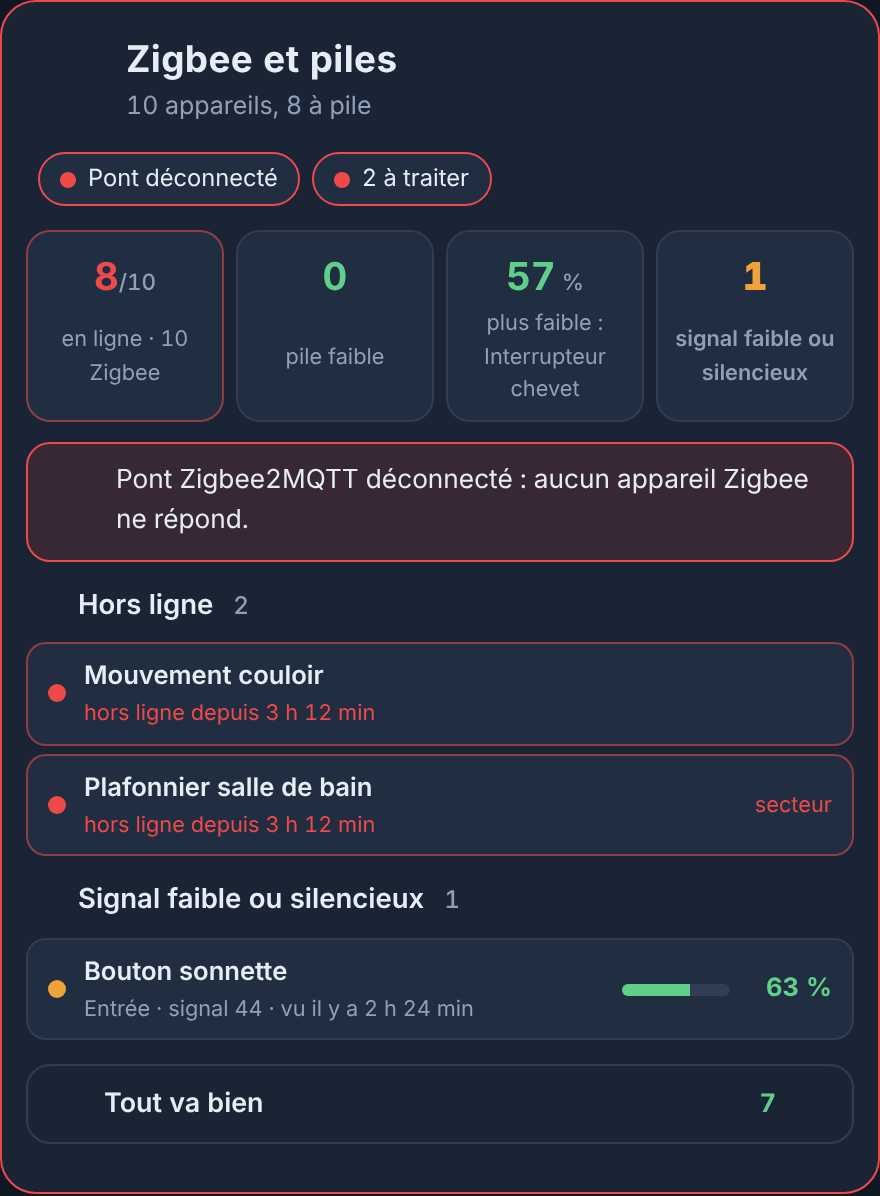
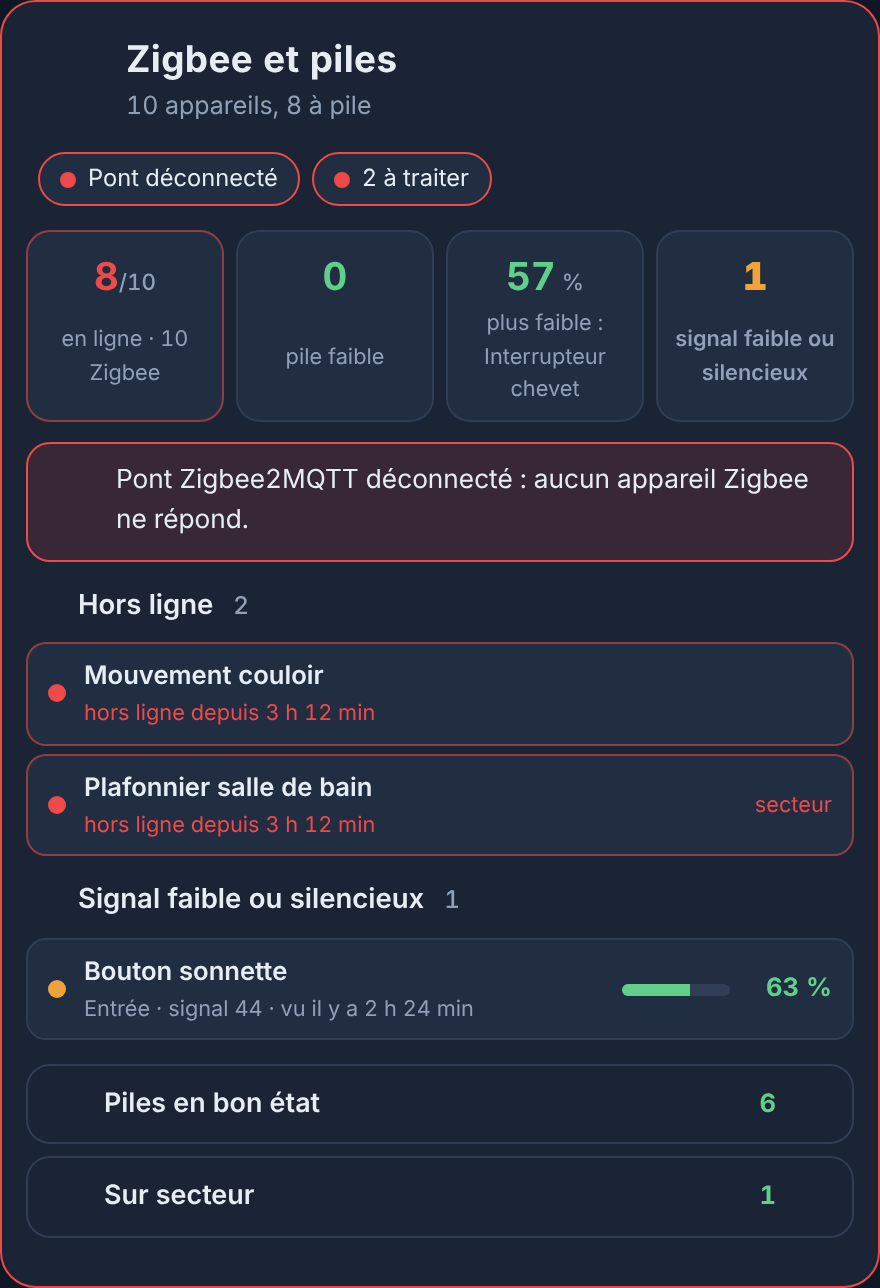
fix(carte): Zigbee et piles, appareils sur secteur à part (0.16.1-beta)
« Tout va bien » est remplacé par deux groupes repliés : « Piles en bon
état » (triées de la plus faible à la plus pleine) et « Sur secteur »
(disjoncteurs, lumières, prises). Avec beaucoup d'appareils Zigbee, la
liste dépliée mélangeait les deux. Lignes de même hauteur, modèle de
l'appareil affiché quand il n'a pas de pièce.

Claude-Session: https://claude.ai/code/session_01EzrPxe6qXk5VAyNcnhyntt

diff --git a/serveur-ha-card.js b/serveur-ha-card.js
@@ -21,7 +21,7 @@
  */
 
 (() => {
-const CARD_VERSION = "0.16.0-beta";
+const CARD_VERSION = "0.16.1-beta";
 
 /* ------------------------------------------------------------- affichage */
 
@@ -2799,13 +2799,15 @@ class ServeurHaZigbeeCard extends HTMLElement {
     this._config = { ...ZB_DEFAULTS, ...(config || {}) };
     this._map = null;
     this._sig = null;
-    this._open = !!this._config.expanded;
+    this._open = new Set(this._config.expanded ? ["bat", "mains"] : []);
     if (!this.shadowRoot) this.attachShadow({ mode: "open" });
     if (!this._clicks) {
       this.shadowRoot.addEventListener("click", (this._clicks = (ev) => {
-        if (ev.target.closest?.("[data-fold]")) {
+        const fold = ev.target.closest?.("[data-fold]");
+        if (fold) {
           ev.stopPropagation();
-          this._open = !this._open;
+          const k = fold.dataset.fold;
+          if (this._open.has(k)) this._open.delete(k); else this._open.add(k);
           this._sig = null; this._render(); return;
         }
         const el = ev.target.closest?.("[data-entity]");
@@ -2912,7 +2914,7 @@ class ServeurHaZigbeeCard extends HTMLElement {
     const c = this._config;
     const m = this._resolve();
     const ids = m.items.flatMap((it) => [it.roles.battery, it.roles.low, it.roles.lqi, it.ids[0]]);
-    const sig = `${c.theme}|${this._hass.themes?.darkMode}|${this._open}|${Math.floor(Date.now() / 60000)}|${this._st(m.bridge)?.state}|` + ids.map((id) => this._st(id)?.state ?? "-").join("|");
+    const sig = `${c.theme}|${this._hass.themes?.darkMode}|${[...this._open].join(",")}|${Math.floor(Date.now() / 60000)}|${this._st(m.bridge)?.state}|` + ids.map((id) => this._st(id)?.state ?? "-").join("|");
     if (sig === this._sig) return;
     this._sig = sig;
 
@@ -2920,6 +2922,7 @@ class ServeurHaZigbeeCard extends HTMLElement {
     const by = (k) => rows.filter((r) => r.s.st === k);
     const off = by("off"), alert = by("alert"), warn = by("warn"), weak = [...by("silent"), ...by("lqi")];
     const okRows = by("ok").sort((a, b) => (a.s.bat ?? 101) - (b.s.bat ?? 101) || a.it.name.localeCompare(b.it.name, "fr", { numeric: true }));
+    const okBat = okRows.filter((r) => r.it.roles.battery || r.it.roles.low), okMains = okRows.filter((r) => !(r.it.roles.battery || r.it.roles.low));
     const bats = rows.filter((r) => r.s.bat !== null);
     const lowest = bats.length ? bats.reduce((a, b) => (b.s.bat < a.s.bat ? b : a)) : null;
     const zb = rows.filter((r) => r.it.zigbee).length;
@@ -2929,11 +2932,19 @@ class ServeurHaZigbeeCard extends HTMLElement {
     const line = ({ it, s }) => {
       const detail = s.st === "off" ? `hors ligne${s.offSince && since(s.offSince) ? ` depuis ${since(s.offSince)}` : ""}`
         : s.st === "silent" ? `aucune nouvelle depuis ${since(s.seen)}`
-        : [it.area, s.lqi !== null ? `signal ${fmt(s.lqi, 0)}` : null, s.seen && s.st !== "ok" ? `vu il y a ${since(s.seen)}` : null].filter(Boolean).join(" · ");
+        : [it.area || it.model, s.lqi !== null ? `signal ${fmt(s.lqi, 0)}` : null, s.seen && s.st !== "ok" ? `vu il y a ${since(s.seen)}` : null].filter(Boolean).join(" · ");
       const val = s.bat !== null ? `<b class="${batCls(s.bat)}">${fmt(s.bat, 0)} %</b>` : s.low ? `<b class="bad">Faible</b>` : it.roles.low ? `<b class="ok">OK</b>` : it.zigbee && !it.roles.battery ? `<small class="zb-mains">secteur</small>` : "";
       const gauge = s.bat !== null ? `<span class="zb-g ${batCls(s.bat)}"><i style="width:${Math.max(3, Math.min(100, s.bat))}%"></i></span>` : "";
       const title = [it.name, it.model, it.area, s.bat !== null ? `Pile ${fmt(s.bat, 0)} %` : null, s.lqi !== null ? `Qualité du lien ${fmt(s.lqi, 0)}/255` : null, s.seen ? `Dernière nouvelle il y a ${since(s.seen)}` : null].filter(Boolean).join(" · ");
       return `<div class="zb-r s-${s.st}" data-entity="${esc(s.main)}" title="${esc(title)}"><i class="zb-d"></i><div class="zb-n"><span>${esc(it.name)}</span><small>${esc(detail)}</small></div>${gauge}${val}</div>`;
+    };
+    // groupes repliés : piles en bon état, appareils sur secteur
+    const fold = (k, icon, label, list) => {
+      if (!list.length) return "";
+      const on = this._open.has(k);
+      return `<div class="ping-g ${on ? "open" : ""}"><button class="ping-gh" data-fold="${k}" aria-expanded="${on}"><ha-icon icon="${icon}"></ha-icon><span class="ping-gl">${label}</span>
+        <span class="ping-dots"></span><b class="ok">${list.length}</b><ha-icon class="ping-chev" icon="${on ? "mdi:chevron-up" : "mdi:chevron-down"}"></ha-icon></button>
+        ${on ? `<div class="zb-list zb-in">${list.map(line).join("")}</div>` : ""}</div>`;
     };
     const sec = (list, icon, label, cls) => (list.length ? `<div class="srv-sec"><div class="srv-h ${cls}"><ha-icon icon="${icon}"></ha-icon>${label} <small class="pve-n">${list.length}</small></div><div class="zb-list">${list.map(line).join("")}</div></div>` : "");
 
@@ -2952,11 +2963,7 @@ class ServeurHaZigbeeCard extends HTMLElement {
         ${sec(alert, "mdi:battery-alert-variant-outline", "Piles à changer", "ping-bad")}
         ${sec(warn, "mdi:battery-low", "Piles faibles", "zb-warn")}
         ${sec(weak, "mdi:signal-cellular-1", "Signal faible ou silencieux", "zb-warn")}
-        ${okRows.length ? `<div class="srv-sec"><div class="ping-g ${this._open ? "open" : ""}">
-          <button class="ping-gh" data-fold="ok" aria-expanded="${this._open}"><ha-icon icon="mdi:check-circle-outline"></ha-icon><span class="ping-gl">Tout va bien</span>
-            <span class="ping-dots"></span><b class="ok">${okRows.length}</b><ha-icon class="ping-chev" icon="${this._open ? "mdi:chevron-up" : "mdi:chevron-down"}"></ha-icon></button>
-          ${this._open ? `<div class="zb-list zb-in">${okRows.map(line).join("")}</div>` : ""}
-        </div></div>` : ""}`;
+        ${okBat.length || okMains.length ? `<div class="srv-sec ping-groups">${fold("bat", "mdi:battery-high", "Piles en bon état", okBat)}${fold("mains", "mdi:power-plug-outline", "Sur secteur", okMains)}</div>` : ""}`;
 
     const nbBad = off.length + alert.length;
     const leds = [
@@ -2977,7 +2984,7 @@ class ServeurHaZigbeeCard extends HTMLElement {
 const ZB_STYLE = `<style>
 .zb-list { display: grid; gap: 4px; }
 .zb-in { padding: 0 8px 8px; }
-.zb-r { display: flex; align-items: center; gap: 9px; padding: 7px 10px; border-radius: 10px; border: 1px solid var(--med-line); background: var(--med-surface); cursor: pointer; min-width: 0; }
+.zb-r { display: flex; align-items: center; gap: 9px; padding: 7px 10px; min-height: 46px; box-sizing: border-box; border-radius: 10px; border: 1px solid var(--med-line); background: var(--med-surface); cursor: pointer; min-width: 0; }
 .zb-d { width: 9px; height: 9px; border-radius: 50%; flex: none; background: var(--med-down); }
 .zb-r.s-off .zb-d, .zb-r.s-alert .zb-d { background: var(--t-red); } .zb-r.s-warn .zb-d, .zb-r.s-lqi .zb-d, .zb-r.s-silent .zb-d { background: #f0a33a; }
 .zb-r.s-off, .zb-r.s-alert { border-color: color-mix(in srgb, var(--t-red) 55%, transparent); }
@@ -4768,7 +4775,7 @@ const ZB_LABELS = {
   lqi_warn: "Qualité du lien Zigbee orange en dessous de (0 à 255)",
   silent_hours: "Appareil silencieux sans nouvelle depuis",
   exclude: "Entités ou appareils à ignorer",
-  expanded: "Liste « Tout va bien » dépliée à l'ouverture",
+  expanded: "Groupes « Piles en bon état » et « Sur secteur » dépliés à l'ouverture",
   theme: "Couleurs de la carte",
 };
 const ServeurHaZigbeeCardEditor = makeEditor(ZB_SCHEMA, ZB_LABELS, ZB_DEFAULTS);

diff --git a/README.md b/README.md
@@ -437,7 +437,7 @@ La carte reprend seule tous les appareils qui ont un **capteur de batterie en %*
 - **Hors ligne** : les appareils dont toutes les entités sont indisponibles, avec la durée depuis la coupure.
 - **Piles à changer** (rouge, sous 15 %) et **Piles faibles** (orange, sous 30 %), avec une jauge, la pièce et la qualité du lien.
 - **Signal faible ou silencieux** : qualité du lien Zigbee sous 50, ou aucune nouvelle depuis plus de 25 h (capteur *Last seen*).
-- **Tout va bien** : le reste, replié ; un clic le déplie, trié de la pile la plus faible à la plus pleine. Un clic sur un appareil ouvre sa batterie.
+- **Piles en bon état** et **Sur secteur** : le reste, en deux groupes repliés ; un clic déplie, les piles triées de la plus faible à la plus pleine. Un clic sur un appareil ouvre sa batterie.
 
 Les capteurs **Linkquality** et **Last seen** de Zigbee2MQTT sont désactivés par défaut dans Home Assistant : activez-les sur les appareils qui vous intéressent pour voir le signal et la dernière nouvelle (pour *Last seen*, activez aussi `last_seen` dans les réglages de Zigbee2MQTT). Pour qu'un appareil Zigbee éteint apparaisse **hors ligne**, activez la *disponibilité* (availability) dans Zigbee2MQTT.
 
@@ -450,7 +450,7 @@ Les capteurs **Linkquality** et **Last seen** de Zigbee2MQTT sont désactivés p
 | `lqi_warn` | Qualité du lien Zigbee orange en dessous de (0 à 255) | `50` |
 | `silent_hours` | Appareil silencieux sans nouvelle depuis (heures) | `25` |
 | `exclude` | Appareils à ignorer (noms ou entités) | — |
-| `expanded` | Liste « Tout va bien » dépliée à l'ouverture | `false` |
+| `expanded` | Groupes « Piles en bon état » et « Sur secteur » dépliés à l'ouverture | `false` |
 | `theme` | `v2`, `auto` ou `ha` | `v2` |
 
 ```yaml
